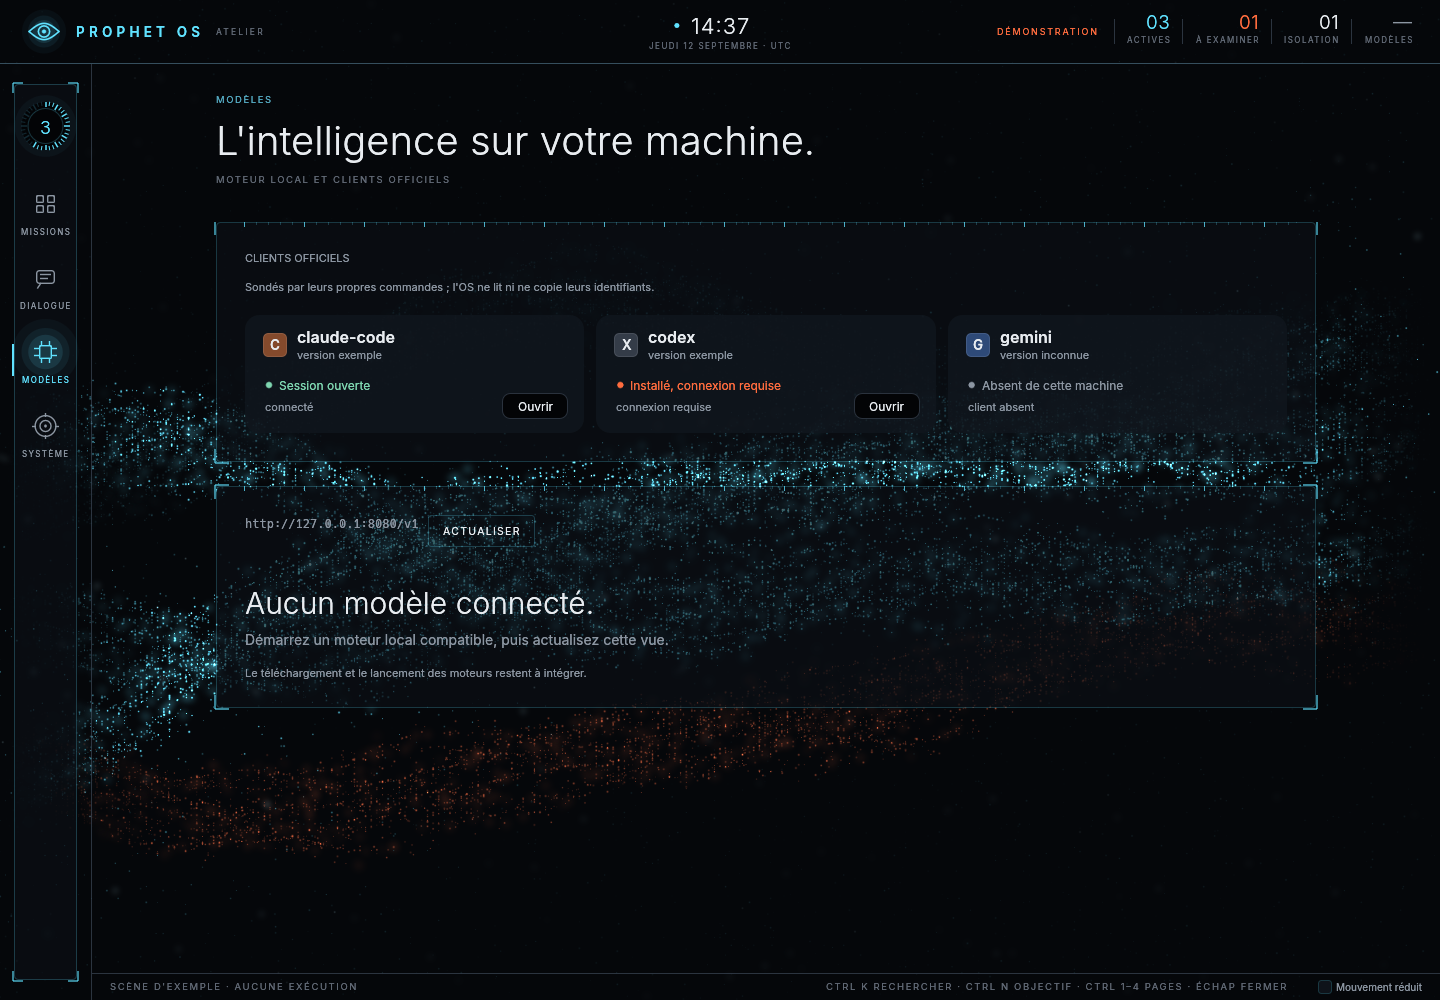
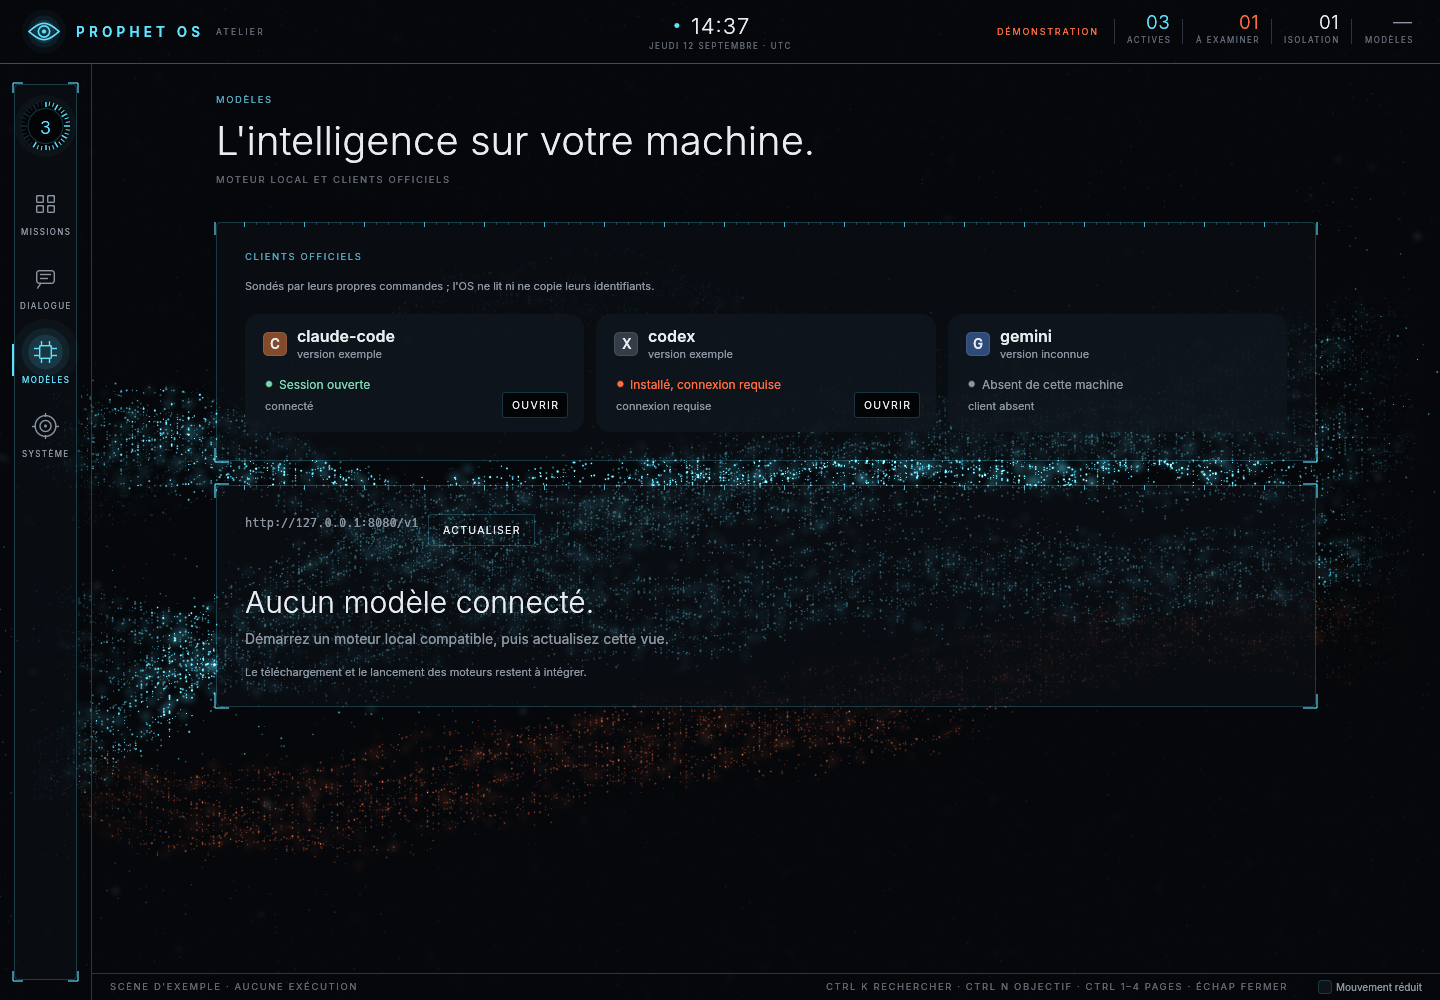
surface: les cartes des clients officiels parlent la langue du tableau de bord
Le bouton « Ouvrir » des cartes Claude Code et Codex était dessiné à part : coins arrondis à
8 px, casse ordinaire, fil neutre, et aucune information d'accessibilité. Il prend les coins
francs, les capitales espacées et le fil d'accent des autres boutons, s'avive au survol ou au
focus, et se nomme « Ouvrir claude-code » pour l'accessibilité. La rubrique « CLIENTS
OFFICIELS » devient une étiquette comme celles des autres plaques. Capture Modèles régénérée.

Claude-Session: https://claude.ai/code/session_011N69j1n8VuEWLextZeZgco

diff --git a/crates/surface/src/supervision.rs b/crates/surface/src/supervision.rs
@@ -1232,7 +1232,8 @@ fn ouvrir_application(args: &[String]) -> bool {
 }
 
 fn clients_officiels(ui: &mut egui::Ui, atelier: &Atelier) {
-    petit(ui, "CLIENTS OFFICIELS");
+    let accent = Accent::de(ui.ctx());
+    etiquette(ui, "CLIENTS OFFICIELS");
     ui.add_space(6.0);
     petit(
         ui,
@@ -1304,23 +1305,43 @@ fn clients_officiels(ui: &mut egui::Ui, atelier: &Atelier) {
                     egui::Id::new(format!("client-open-{}", card.driver)),
                     egui::Sense::click(),
                 );
+                let nom = format!("Ouvrir {}", card.driver);
+                response.widget_info(|| {
+                    egui::WidgetInfo::labeled(egui::WidgetType::Button, true, &nom)
+                });
+                // Le vocabulaire des boutons du tableau de bord : coins francs, capitales
+                // espacées, fil d'accent qui s'avive au survol.
                 let p = ui.painter();
                 p.rect_filled(
                     button,
-                    8,
+                    3,
                     if response.hovered() {
                         VERRE_HAUT
                     } else {
                         CREUX
                     },
                 );
-                p.rect_stroke(button, 8, Stroke::new(1.0, TRAIT), egui::StrokeKind::Inside);
-                p.text(
+                p.rect_stroke(
+                    button,
+                    3,
+                    Stroke::new(
+                        1.0,
+                        if response.hovered() || response.has_focus() {
+                            accent.fil_vif
+                        } else {
+                            accent.fil
+                        },
+                    ),
+                    egui::StrokeKind::Inside,
+                );
+                hud::texte_espace(
+                    p,
                     button.center(),
                     Align2::CENTER_CENTER,
-                    "Ouvrir",
-                    FontId::proportional(12.0),
+                    "OUVRIR",
+                    FontId::proportional(10.5),
                     ENCRE,
+                    1.3,
                 );
                 if response
                     .on_hover_cursor(egui::CursorIcon::PointingHand)
